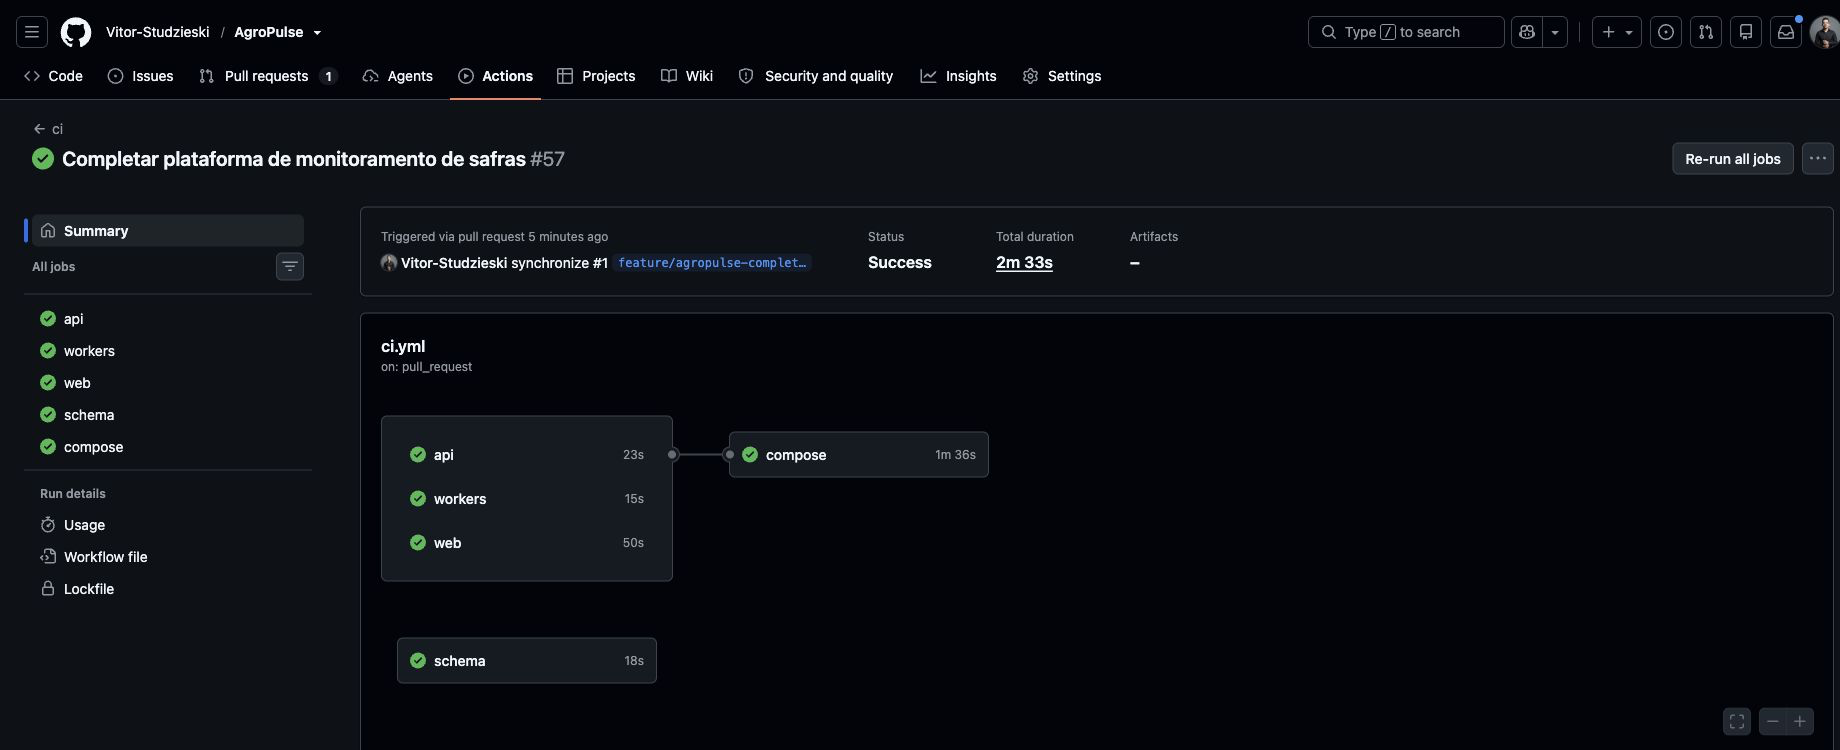
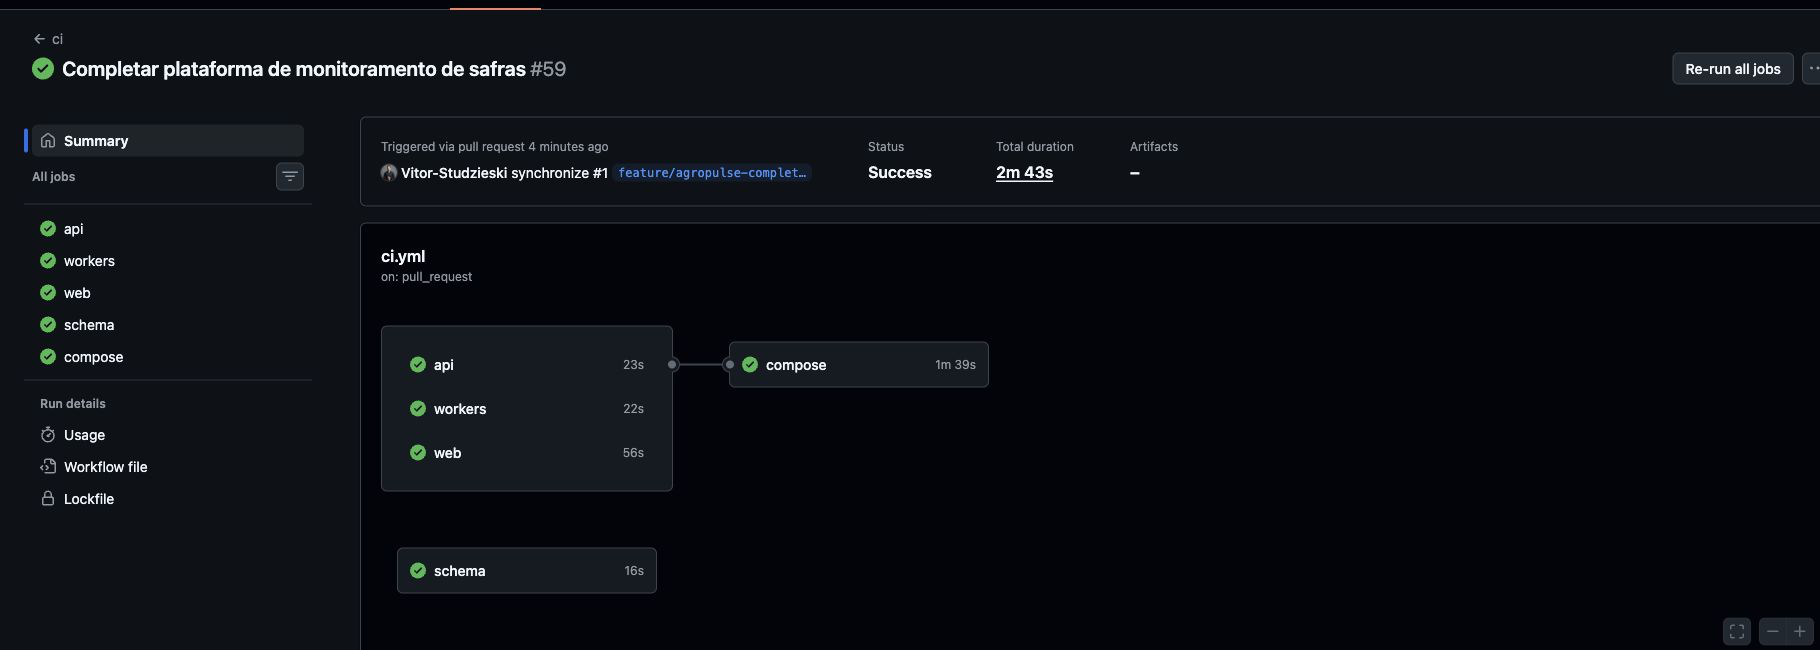
docs: sincroniza relatorio e evidencias com CI verde

diff --git a/docs/evidencias/README.md b/docs/evidencias/README.md
@@ -4,7 +4,7 @@ Salve as capturas listadas no apêndice A de [RELATORIO-MODELO.md](../RELATORIO-
 
 Use apenas dados de demonstração nos prints. Não inclua senhas, tokens, strings de conexão, dados pessoais ou credenciais de serviços. Para GitHub Actions, capture o resultado real depois que o workflow remoto for executado; não produza uma imagem ilustrativa no lugar do check.
 
-Das 28 capturas previstas no apêndice A, os 28 arquivos numerados estão salvos e revisados. As capturas 01–09 foram refeitas como captura direta do viewport do Chrome, sem moldura do navegador. As telas 01–08 vêm da interface da demonstração isolada, mapeada nesta sessão em `http://localhost:34100/`; para reproduzir em portas isoladas, use `WEB_PORT=34100 API_PORT=34101 MONGO_PORT=34102 make demo`. O Compose deriva a URL da API e a origem CORS dessas portas. A captura 09 usa `http://localhost:8000/docs#/infra/health_health_get` e registra a resposta HTTP 200 (`{"status":"ok"}`) de `GET /health`. A contagem na captura 15 é 21.006 leituras no instante da consulta; como o simulador continua ativo, o valor muda durante a execução. A captura 18 confirma `IXSCAN` pelo índice `crop_1`, e a captura 26 mostra a coleção `field_daily_stats` com 24 documentos agregados. `painel-visao-geral.png` é a captura complementar do painel: mostra o histórico anual 2024 da estação INMET A763/Marília a 27,8 km do campus e o ranking municipal do IBGE. As telas de Safras e Operações mostram estados vazios reais da demonstração; não foram criados registros apenas para preencher capturas. As capturas 27 e 28 foram atualizadas no Chrome: a 27 mostra a branch pública no commit `f88dc18`, e a 28 mostra os cinco jobs aprovados no run #57 desse commit. Consulte o PR #1 para o status mais recente do GitHub Actions. Os RAs obrigatórios devem ser inseridos no relatório antes da entrega. A data da apresentação pode ser incluída no roteiro quando for definida; o guia não a exige na capa.
+Das 28 capturas previstas no apêndice A, os 28 arquivos numerados estão salvos e revisados. As capturas 01–09 foram refeitas como captura direta do viewport do Chrome, sem moldura do navegador. As telas 01–08 vêm da interface da demonstração isolada, mapeada nesta sessão em `http://localhost:34100/`; para reproduzir em portas isoladas, use `WEB_PORT=34100 API_PORT=34101 MONGO_PORT=34102 make demo`. O Compose deriva a URL da API e a origem CORS dessas portas. A captura 09 usa `http://localhost:8000/docs#/infra/health_health_get` e registra a resposta HTTP 200 (`{"status":"ok"}`) de `GET /health`. A contagem na captura 15 é 21.006 leituras no instante da consulta; como o simulador continua ativo, o valor muda durante a execução. A captura 18 confirma `IXSCAN` pelo índice `crop_1`, e a captura 26 mostra a coleção `field_daily_stats` com 24 documentos agregados. `painel-visao-geral.png` é a captura complementar do painel: mostra o histórico anual 2024 da estação INMET A763/Marília a 27,8 km do campus e o ranking municipal do IBGE. As telas de Safras e Operações mostram estados vazios reais da demonstração; não foram criados registros apenas para preencher capturas. As capturas 27 e 28 foram atualizadas no Chrome: ambas documentam a branch pública no commit `871ce30`; a 28 também mostra os cinco jobs aprovados no run #59 desse commit. Consulte o PR #1 para o status mais recente do GitHub Actions. Os RAs obrigatórios devem ser inseridos no relatório antes da entrega. A data da apresentação pode ser incluída no roteiro quando for definida; o guia não a exige na capa.
 
 ## Conteúdo de cada captura
 
@@ -21,6 +21,6 @@ Use esta lista para conferir o enquadramento antes de marcar um item como conclu
 | `19-geointersects` | Compass mongosh: consultar `fields.boundary` com `$geoIntersects` no ponto do campus `[-50.1994, -22.1110]`; mostrar o talhão de demonstração retornado. |
 | `20-agregacao-media-diaria` | Compass mongosh: média diária de `soil_moisture` agrupada por talhão e dia, conforme consulta em `docs/MODELO-DADOS.md`. |
 | `21-compass-colecoes`, `22-documento-fields`, `23-documento-sensor-reading`, `24-indices-fields`, `25-validacao-farms`, `26-field-daily-stats` | Compass: lista de coleções; documento de `fields`; documento em `sensor_readings`; índices de `fields`; validação de `farms`; documento agregado em `field_daily_stats`. `make demo` executa o rollup inicial. |
-| `27-github-repo`, `28-github-actions-verde` | A captura 27 mostra a branch pública `feature/agropulse-completion` no commit `f88dc18`. A captura 28 mostra os cinco jobs aprovados no run #57 desse commit. O PR #1 permanece aberto, sem merge; consulte-o para o status do HEAD mais recente. |
+| `27-github-repo`, `28-github-actions-verde` | A captura 27 mostra a branch pública `feature/agropulse-completion` no commit `871ce30`. A captura 28 mostra os cinco jobs aprovados no run #59 desse commit. O PR #1 permanece aberto, sem merge; consulte-o para o status do HEAD mais recente. |
 
 Para os itens 15–20, mantenha comando e resposta na mesma captura. Não mostre tokens, senhas, connection strings, dados pessoais ou documentos fora da demonstração. Os itens 15–28 foram conferidos visualmente.

diff --git a/docs/REQUISITOS.md b/docs/REQUISITOS.md
@@ -56,7 +56,7 @@ Esta matriz converte os requisitos do guia de engenharia (seções 2–14) em ev
 - Alertas integrados em stack isolada: uma regra temporária aplicada a um talhão com leituras existentes gerou alerta no worker; a API resolveu e removeu o alerta, e a regra foi apagada.
 - Revalidação de `make demo` em projeto Compose temporário com portas alternativas: API autenticada respondeu 200 para perfil, fazendas, talhões, séries, estações, clima, ranking, leituras, safras, operações, sensores, regras e alertas. A página web respondeu 200, o bundle incluiu a URL da API na porta alternativa e o CORS aceitou a origem da interface. O Mongo registrou 1 fazenda, 3 talhões, 6 sensores, 12.840 leituras de sensores, 1 estação INMET, 8.784 observações horárias, 1.556 registros PAM/SP e 24 resumos. O seed, os importadores e o rollup foram executados novamente; a segunda execução ignorou o backfill existente. O volume e os containers descartáveis foram removidos.
 - Revalidação ponta a ponta em 2026-11-01, com `make demo` em um projeto Docker novo e portas alternativas: o seed criou 3 talhões e 6 sensores; o backfill inseriu 12.096 leituras; os importadores carregaram 8.784 observações INMET de 2024 e 1.556 registros IBGE/PAM de 2023; o rollup gerou 24 resumos diários. API e interface responderam HTTP 200. Com conta aleatória temporária, foram exercitados o CRUD autenticado completo, cálculo de área/centroide, leitura ao vivo do simulador, série horária, clima de 2024, ranking de 10 municípios e geração de alerta pelo worker; webhook permaneceu vazio. Conta, containers e volume temporários foram removidos, preservando a stack principal.
-- O workflow do GitHub Actions executa em pushes e pull requests; o status do HEAD e os resultados atuais dos cinco jobs são consultados no [PR #1](https://github.com/Vitor-Studzieski/AgroPulse/pull/1). A captura 28 mostra os cinco jobs aprovados no run [#57](https://github.com/Vitor-Studzieski/AgroPulse/actions/runs/41339698655), para o commit `f88dc18`.
+- O workflow do GitHub Actions executa em pushes e pull requests; o status do HEAD e os resultados atuais dos cinco jobs são consultados no [PR #1](https://github.com/Vitor-Studzieski/AgroPulse/pull/1). A captura 28 mostra os cinco jobs aprovados no run [#59](https://github.com/Vitor-Studzieski/AgroPulse/actions/runs/41389810655), para o commit `871ce30`.
 - Os três Compose isolados iniciaram. Web/Mock API e API isolada responderam 200; API e imagem Render passaram health GET/HEAD e `/docs`. O worker isolado iniciou com 6 sensores, 3 regras e leituras geradas.
 - Os containers de validação foram encerrados com `down` normal; os volumes foram preservados. `git diff --check` passou.
 

diff --git a/docs/RELATORIO-MODELO.md b/docs/RELATORIO-MODELO.md
@@ -138,7 +138,7 @@ Esta seção registra as verificações executadas e as evidências disponíveis
 | Demonstração em banco vazio | `make demo` em projeto Compose isolado criou seed, 3 talhões e 6 sensores; backfill gerou 12.096 leituras sintéticas de sete dias; importou INMET A763 (8.784 leituras) e PAM/SP (1.556 registros); o rollup criou 24 documentos em `field_daily_stats`. A API autenticada retornou clima 2024 e top 10 do ranking 2023. A segunda execução ignorou o backfill existente e não duplicou os resumos diários; a contagem observada após a simulação ao vivo foi 12.840 leituras. | 2026-10-31; o projeto e volume temporários foram removidos após a conferência |
 | Fluxo CRUD integrado | Conta sintética criada e atualizada; fazenda, talhão, safra, operação, sensor e regra exercitados por API; worker gerou alerta a partir de leituras existentes, API resolveu e removeu o evento | Stack local isolada em 2026-10-31; conta e dados descartáveis removidos após a validação |
 | Telemetria, clima, produção e alerta em fluxo integrado | `make demo` em um projeto Compose isolado novo: 12.096 leituras de backfill; 8.784 observações INMET 2024; 1.556 registros IBGE/PAM 2023; 24 resumos. Uma conta aleatória temporária percorreu CRUD autenticado de fazenda, talhão GeoJSON, safra, operação, sensor e regra; a área e o centroide foram calculados. O simulador forneceu leitura ao vivo; série horária, clima anual e ranking de 10 municípios responderam; o worker gerou alerta com webhook vazio. | 2026-11-01; conta, containers e volume temporários removidos; stack principal preservada |
-| GitHub Actions remoto | Cinco jobs: schema, workers, API, web e Compose aprovados | Run [#57](https://github.com/Vitor-Studzieski/AgroPulse/actions/runs/41339698655) do commit `f88dc18`, em 2026-11-01; a captura 28 mostra esse resultado. Consulte o PR #1 para o status do HEAD mais recente. |
+| GitHub Actions remoto | Cinco jobs: schema, workers, API, web e Compose aprovados | Run [#59](https://github.com/Vitor-Studzieski/AgroPulse/actions/runs/41389810655) do commit `871ce30`, em 2026-11-02; a captura 28 mostra esse resultado. Consulte o PR #1 para o status do HEAD mais recente. |
 
 ## 8. Demonstração
 
